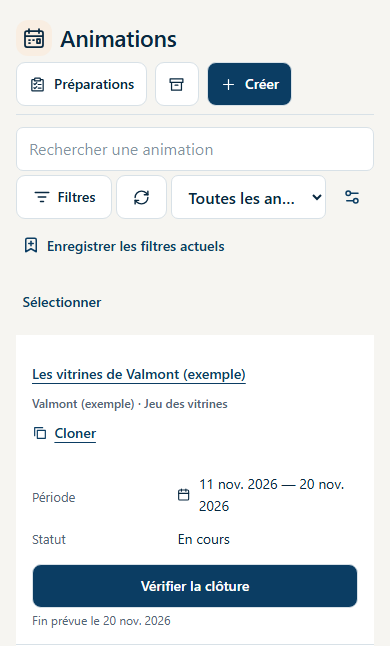
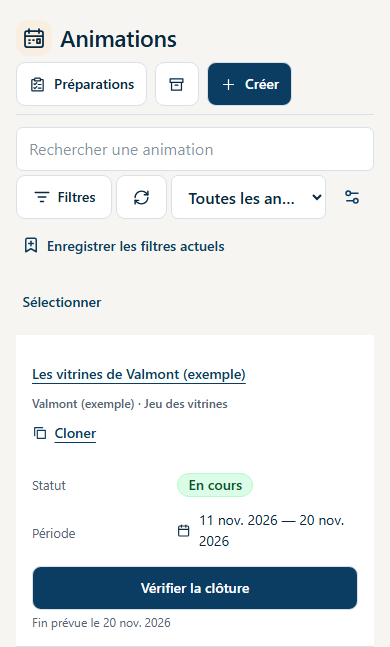
docs(E73): illustrer les badges de statut des animations

diff --git a/docs/specifications/epic-73-animation-et-ou-coffrets/ux-productivite-organisateur.md b/docs/specifications/epic-73-animation-et-ou-coffrets/ux-productivite-organisateur.md
@@ -124,7 +124,7 @@ propre relisent les données de leur bilan sans lancer un téléchargement.
 
 | ID | Déclencheur, résultat observable et refus |
 | --- | --- |
-| AP-08 | La liste Animations charge une page bornée de 25, maximum 100, avec recherche, période, modèle, statut/phase et alerte appliqués avant pagination au serveur. Aucun `listAll/collectPages` interactif. Actions **Précédent/Suivant** utilisables au clavier et sur mobile ; filtre changé = première page. Les archives restent séparées. Un total non fourni n’est pas remplacé par le nombre de lignes de la page. |
+| AP-08 | La liste Animations charge une page bornée de 25, maximum 100, avec recherche, période, modèle, statut/phase et alerte appliqués avant pagination au serveur. Le statut est lisible dans un badge libellé, avant la période sur ordinateur et téléphone, y compris dans les archives. Aucun `listAll/collectPages` interactif. Actions **Précédent/Suivant** utilisables au clavier et sur mobile ; filtre changé = première page. Les archives restent séparées. Un total non fourni n’est pas remplacé par le nombre de lignes de la page. |
 | AP-09 | Sélection et suppression de brouillons portent uniquement sur les éléments explicitement sélectionnés. **Sélectionner les brouillons de cette page** n’inclut pas les pages non lues. Confirmation indique nombre et objets concernés ; rien de publié sélectionnable comme brouillon. Changer de filtre annonce l’effacement de la sélection. Maximum 100 éléments par opération UI ; aucune collecte implicite de toutes les pages. Les contrôles serveur de suppression existants restent obligatoires. |
 | AP-10 | Participants et Validations ont la même recherche/pagination depuis le menu global ou une fiche, avec animation fixée dans la fiche. Réutiliser les lectures globales bornées pour les moteurs compatibles ; la tombola publique garde son lecteur autorisé. Résumé, définition des compteurs et date d’observation visibles ; ne pas comparer comme égaux des KPI ayant des périmètres différents. Réponse tardive d’un filtre ou tenant précédent ignorée. |
 | AP-15 | Dans une tombola publique, rechercher par préfixe d’e-mail déjà autorisé ou par référence complète de participation, sans télécharger les autres pages. Aide visible **E-mail (début de l’adresse) ou référence complète**. La recherche active n’est pas supprimée silencieusement en changeant de moteur : la nouvelle vue la reprend si compatible, sinon explique et demande de la reformuler. Les compteurs restent libellés **Toute l’animation** ; le total de résultats filtrés, s’il est demandé, appartient à la pagination. |

diff --git a/docs/produit/formation/animation/guide-quotidien-animation.md b/docs/produit/formation/animation/guide-quotidien-animation.md
@@ -34,7 +34,7 @@ Dans **Rappels et autres alertes**, choisissez **Supprimer de mon tableau de bor
 
 ## 3 · Retrouver une animation et réutiliser ses filtres
 
-Dans **Animations**, recherchez le nom d’une édition. Sa ligne indique son statut, le motif d’une intervention éventuelle et la prochaine action disponible. Vous retrouvez le même statut en ouvrant la fiche.
+Dans **Animations**, recherchez le nom d’une édition. Repérez le badge **Statut**, par exemple **En cours**, avant la période. La ligne indique aussi la prochaine action et le motif d’une intervention éventuelle. Vous retrouvez le même statut en ouvrant la fiche.
 
 Au-dessus de la liste, **Préparations** ouvre vos travaux à reprendre et **Mes archives** ouvre les éditions archivées.
 
@@ -42,7 +42,7 @@ Au-dessus de la liste, **Préparations** ouvre vos travaux à reprendre et **Mes
 2. Ouvrez l’édition par son nom, ou choisissez sa prochaine action pour rejoindre le dossier concerné. **Retour aux animations** vous ramène à la même page avec vos critères.
 3. Pour retrouver une sélection habituelle, choisissez son nom dans **Vue**. **À traiter** affiche les animations qui demandent une intervention.
 
-![Utilisez la recherche et la vue, puis choisissez la prochaine action sur la ligne de l’animation.](illustrations/guide-quotidien/liste-animations-1024.png)
+![Le badge En cours apparaît avant les dates. La prochaine action permet d’ouvrir le dossier concerné.](illustrations/guide-quotidien/liste-animations-1024.png)
 
 ### Enregistrer une vue pour la prochaine fois
 

diff --git a/docs/produit/formation/animation/illustrations/guide-quotidien/README.md b/docs/produit/formation/animation/illustrations/guide-quotidien/README.md
@@ -1,5 +1,19 @@
 # Captures du guide utilisateur Animation
 
+## Statut dans la liste Animations du 26 novembre 2026
+
+Le portail construit depuis la base `764b06c` avec le correctif local affiche le badge **En cours** avant les dates dans la [liste sur ordinateur](liste-animations-1024.png), dans la [liste sur téléphone](liste-animations-390.png) et à [l’arrivée dans la rubrique](accueil-animations-390.png). La recette utilise les données fictives de Valmont.
+
+Depuis le dépôt Animation, construire l’application et capturer la liste sur un port local éphémère.
+
+```powershell
+$env:ANIMATION_TEST_DIST = 'tmp/status-list/build'
+$env:ANIMATION_GUIDE_CAPTURE_ROOT = 'tmp/status-list/captures'
+$env:ANIMATION_GUIDE_ARTIFACTS = 'tmp/status-list/guide'
+node scripts/build-pwa-tests.mjs
+node tests/browser/animation-guide.mjs --only=liste-animations --captures-only
+```
+
 ## Repères de création, clôture et remise du 26 novembre 2026
 
 Le portail Animation est construit depuis la base `8d7e0e1` avec les corrections locales, sur des données fictives. [L’aide de l’étape Dotation](aide-dotation-1280.png) montre le modèle près du titre **Nouvelle animation** et l’encart **Pour continuer**. Dans [la fiche avant l’échéance](navigation-cloture-1024.png), **Clôture** donne directement accès à la revue. [La confirmation de remise](remise-1024.png) montre le motif, la date facultative et la confirmation de la remise au gagnant. Les captures de l’onglet **Gains et remises** s’arrêtent avant l’enregistrement.
